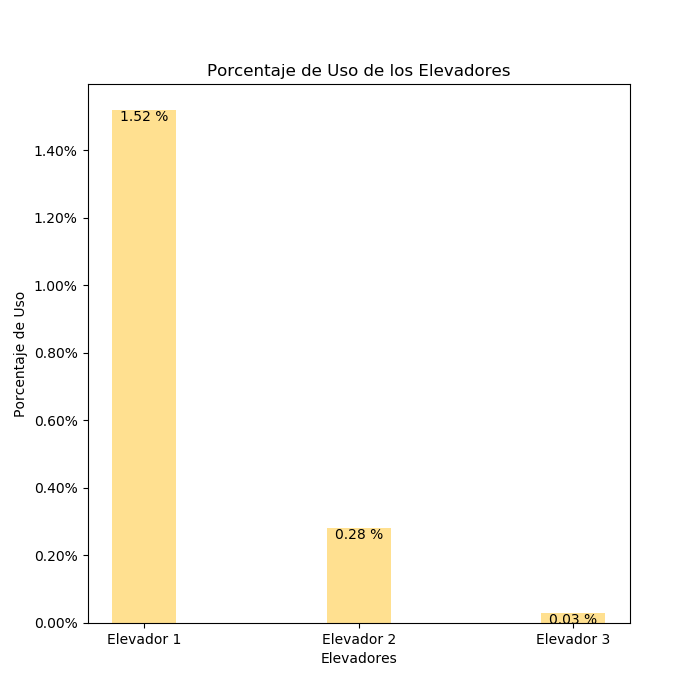
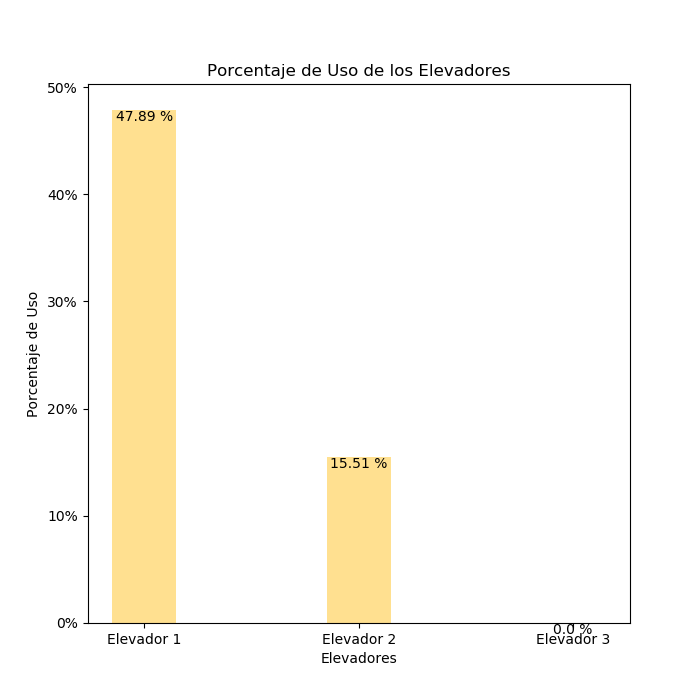
bug solucionado

diff --git a/controladores/controlador_graficos.py b/controladores/controlador_graficos.py
@@ -68,8 +68,8 @@ class ControladorGraficos(QDialog):
         dataset = [0] * len(self.elevadores)
         for i in range(0,len(self.elevadores)):
             elevador_arreglo = self.elevadores[i].get_arreglo_horas_dia()
-            dataset[i]  = float("{0:.2f}".format(((np.mean(elevador_arreglo)*100)/(self.dias_simulacion*600))))
-            
+            dataset[i]  = float("{0:.2f}".format(((np.mean(elevador_arreglo)*100)/(600))))
+            print("promedio: " + str(np.mean(elevador_arreglo)))
             print("El valor es: " + str(dataset[i]))
             
 

diff --git a/main.py b/main.py
@@ -229,7 +229,7 @@ def main(controlador_simulacion, pantalla,cantidad_elevadores,cantidad_mecanicos
     #Se genera el reloj que guiará toda la simulación.
     reloj = Reloj()
     #Se genera la instancia de Taller.
-    taller = Taller(dias_simulacion,cantidad_elevadores,cantidad_mecanicos)
+    taller = Taller(dias_simulacion,cantidad_mecanicos,cantidad_elevadores)
     #Generar la cola de eventos.
     cola_eventos = generar_cola_eventos_ordenada(dias_simulacion)
     
